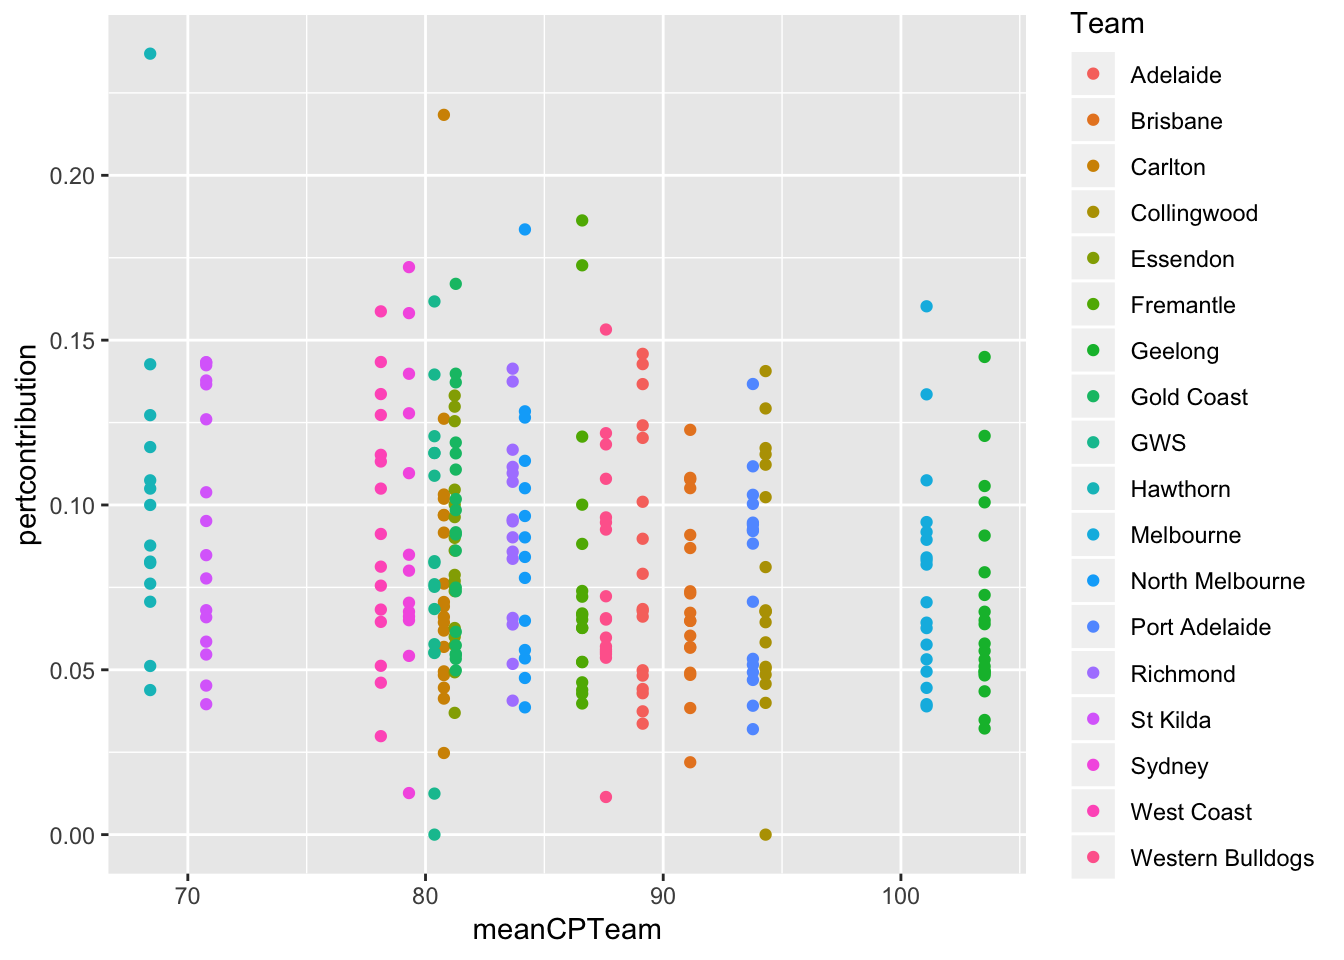
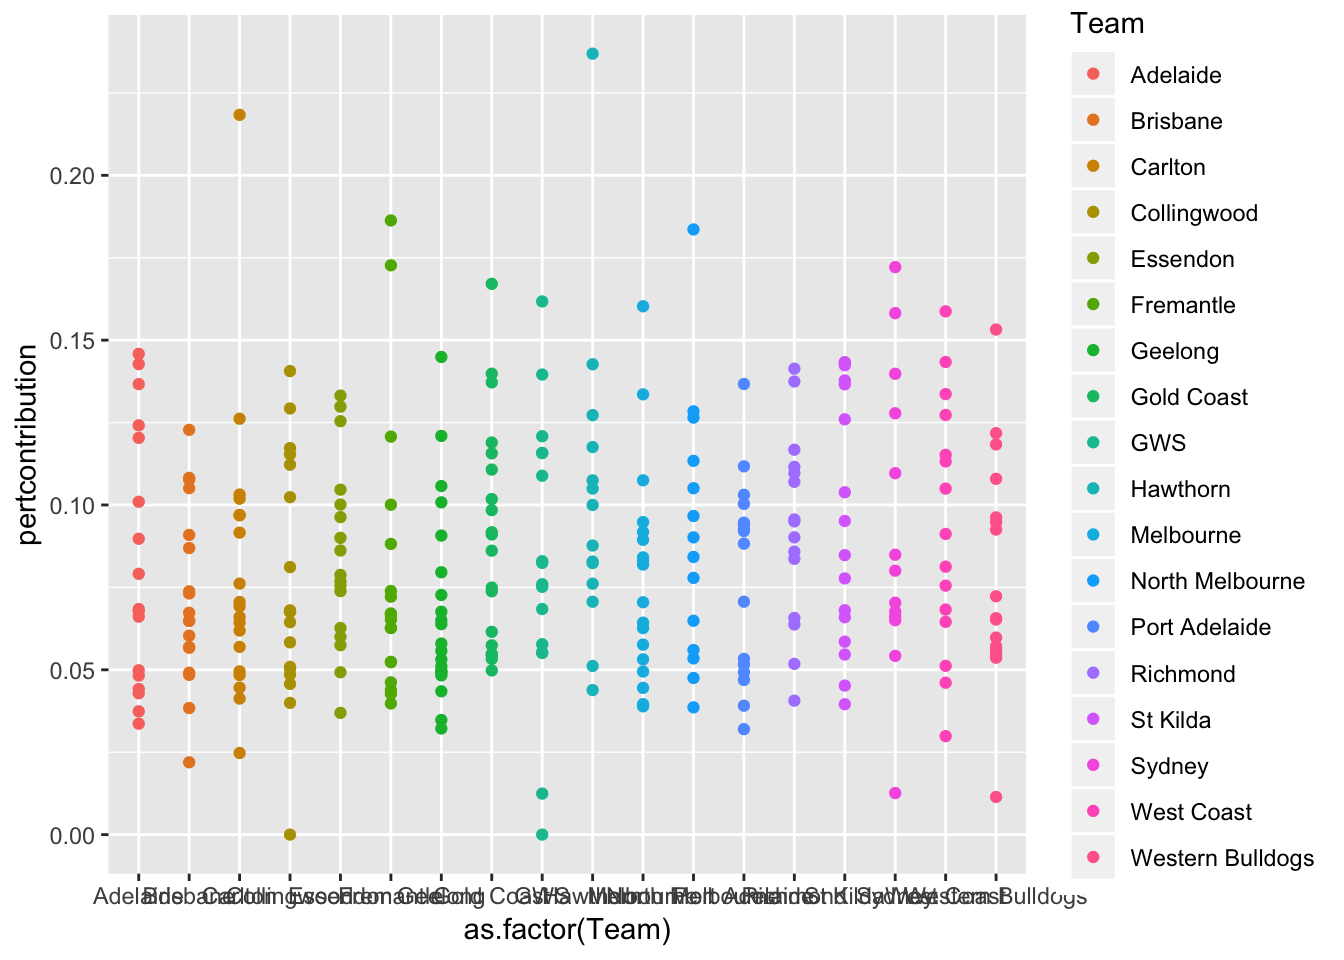
push
push

diff --git a/content/makemeauseR/2019-01-11-poor-tom-mitchell.html b/content/makemeauseR/2019-01-11-poor-tom-mitchell.html
@@ -22,12 +22,12 @@ description: 'Hawks lose one of the best'
 <p>Tom Mitchell we know is a contested possession machine, just how much of a machine was he?</p>
 <p>One quick way would be just to see what is the average amount of contested possessions he got per game and where did that rank in terms of all the AFL players this year.</p>
 <pre class="r"><code>library(tidyverse)</code></pre>
-<pre><code>## ── Attaching packages ───────────────────────────────────────────────────────── tidyverse 1.2.1 ──</code></pre>
+<pre><code>## ── Attaching packages ───────────────── tidyverse 1.2.1 ──</code></pre>
 <pre><code>## ✔ ggplot2 3.1.0     ✔ purrr   0.2.5
 ## ✔ tibble  2.0.1     ✔ dplyr   0.7.8
 ## ✔ tidyr   0.8.2     ✔ stringr 1.3.1
 ## ✔ readr   1.3.1     ✔ forcats 0.3.0</code></pre>
-<pre><code>## ── Conflicts ──────────────────────────────────────────────────────────── tidyverse_conflicts() ──
+<pre><code>## ── Conflicts ──────────────────── tidyverse_conflicts() ──
 ## ✖ dplyr::filter() masks stats::filter()
 ## ✖ dplyr::lag()    masks stats::lag()</code></pre>
 <pre class="r"><code>fitzRoy::player_stats%&gt;%
@@ -512,9 +512,11 @@ footywire%&gt;%filter(player %in%NA_Players)%&gt;%head()</code></pre>
   
   mutate(position = replace(position, which(is.na(position) &amp; 
                                               Player==&quot;Adam Oxley&quot;),&quot;Defender&quot;))</code></pre>
+<p>Now we have most of the players positions filled out, so now lets look at Tom Mitchells percentages as part of the midfield group.</p>
 </div>
 <div id="tom-mitchells-contested-possessions-as-a-midfield-group" class="section level1">
 <h1>Tom Mitchells contested possessions % as a midfield group</h1>
+<p>So I will define and this is of course up for debate as midfield group as plays in one of the following listed footywire positions. * Midfield * Midfield, Forward * Defender, Midfield, * Ruck, * Forward, Ruck</p>
 <pre class="r"><code>  dataset%&gt;%
     filter(position %in% c(&quot;Midfield, Forward&quot;, &quot;Midfield&quot;,&quot;Defender, Midfield&quot;, &quot;Ruck&quot;, &quot;Forward, Ruck&quot;))%&gt;%
     group_by(Team, Round)%&gt;%
@@ -566,7 +568,7 @@ footywire%&gt;%filter(player %in%NA_Players)%&gt;%head()</code></pre>
 ##  9 Gold Coast      Jarryd Lyons          13.6
 ## 10 Melbourne       Jack Viney            13.5
 ## # … with 291 more rows</code></pre>
-<p>Interestingly Tom Mitchell average the second most contested possessions per game on the team that averaged the least amount of contested possessions per week. Based on a first glance it seems pretty important.</p>
+<p>Interestingly Tom Mitchell average the <em>second most contested possessions per game</em> on the <em>team that averaged the least amount of contested possessions per week</em>. Based on a first glance it seems pretty important.</p>
 <p>But lets get back to what I wanted to look at earlier. That was specifically Tom Mitchells contribution as part of the midfield group.</p>
 <pre class="r"><code>teamstats&lt;-dataset%&gt;%
   
@@ -598,10 +600,10 @@ df%&gt;%arrange(desc(pertcontribution))%&gt;%head()  </code></pre>
 ## 4 North Melbourne Ben Cunnington         15.5       84.2            0.184
 ## 5 Fremantle       Lachie Neale           15.0       86.6            0.173
 ## 6 Sydney          Josh P. Kennedy        13.7       79.3            0.172</code></pre>
-<p>Looking at it this way, what could be an interesting observation Tom Mitchell averages less contested possessions per game, but his percentage of them as part of Hawthorns midfield group is actually higher than Patrick Cripps.</p>
+<p>Looking at it this way, what could be an interesting observation Tom Mitchell averages less contested possessions per game, and less of a proportion of his teams contested possessions when <a href="https://www.foxsports.com.au/afl/afl-2019-how-tom-mitchells-broken-leg-impacts-2019-season-and-brownlow-medal-market/news-story/687b108237a981e106d7f34b39ac4e9a">comparing him vs Patrick Cripps</a>. But if we were to just look as part of the teams midfield group. Tom Mitchell leads the league in terms of proportion of contested possessions won as part of the teams midfield.</p>
 <p>Lets now have a quick look at this graphically. ;</p>
 <pre class="r"><code>df%&gt;%
-  ggplot(aes(x=meanCPTeam, y=pertcontribution))+
+  ggplot(aes(x=as.factor(Team), y=pertcontribution))+
   geom_point(aes(colour=Team)) </code></pre>
 <p><img src="/makemeauseR/2019-01-11-poor-tom-mitchell_files/figure-html/unnamed-chunk-15-1.png" width="672" /></p>
 </div>
